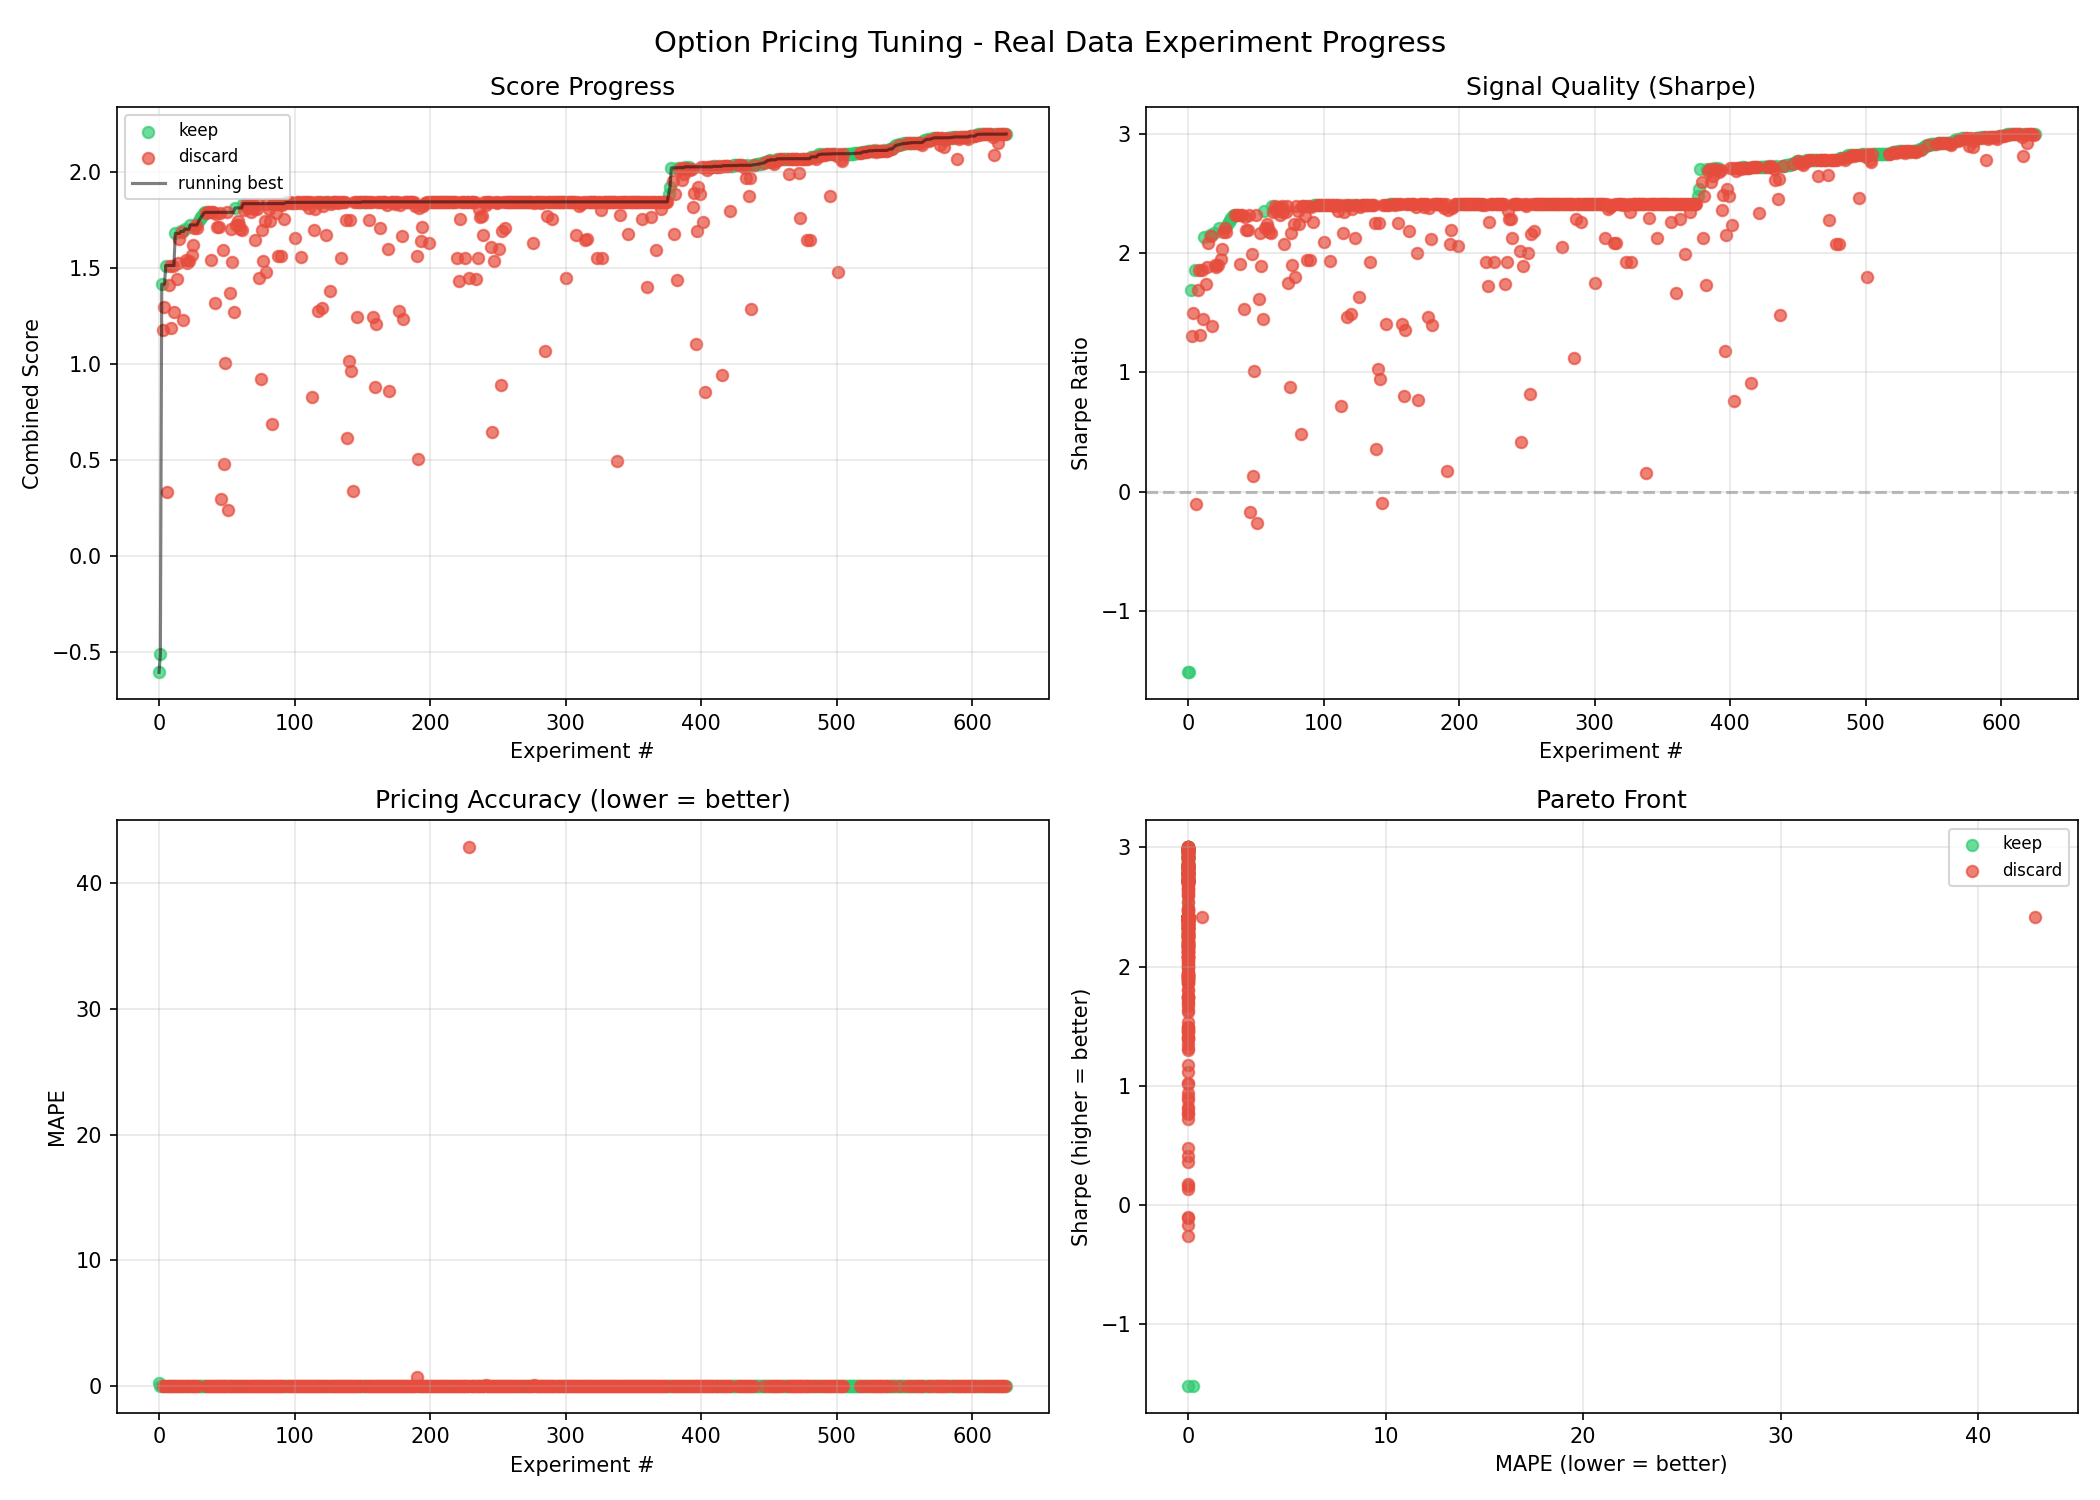
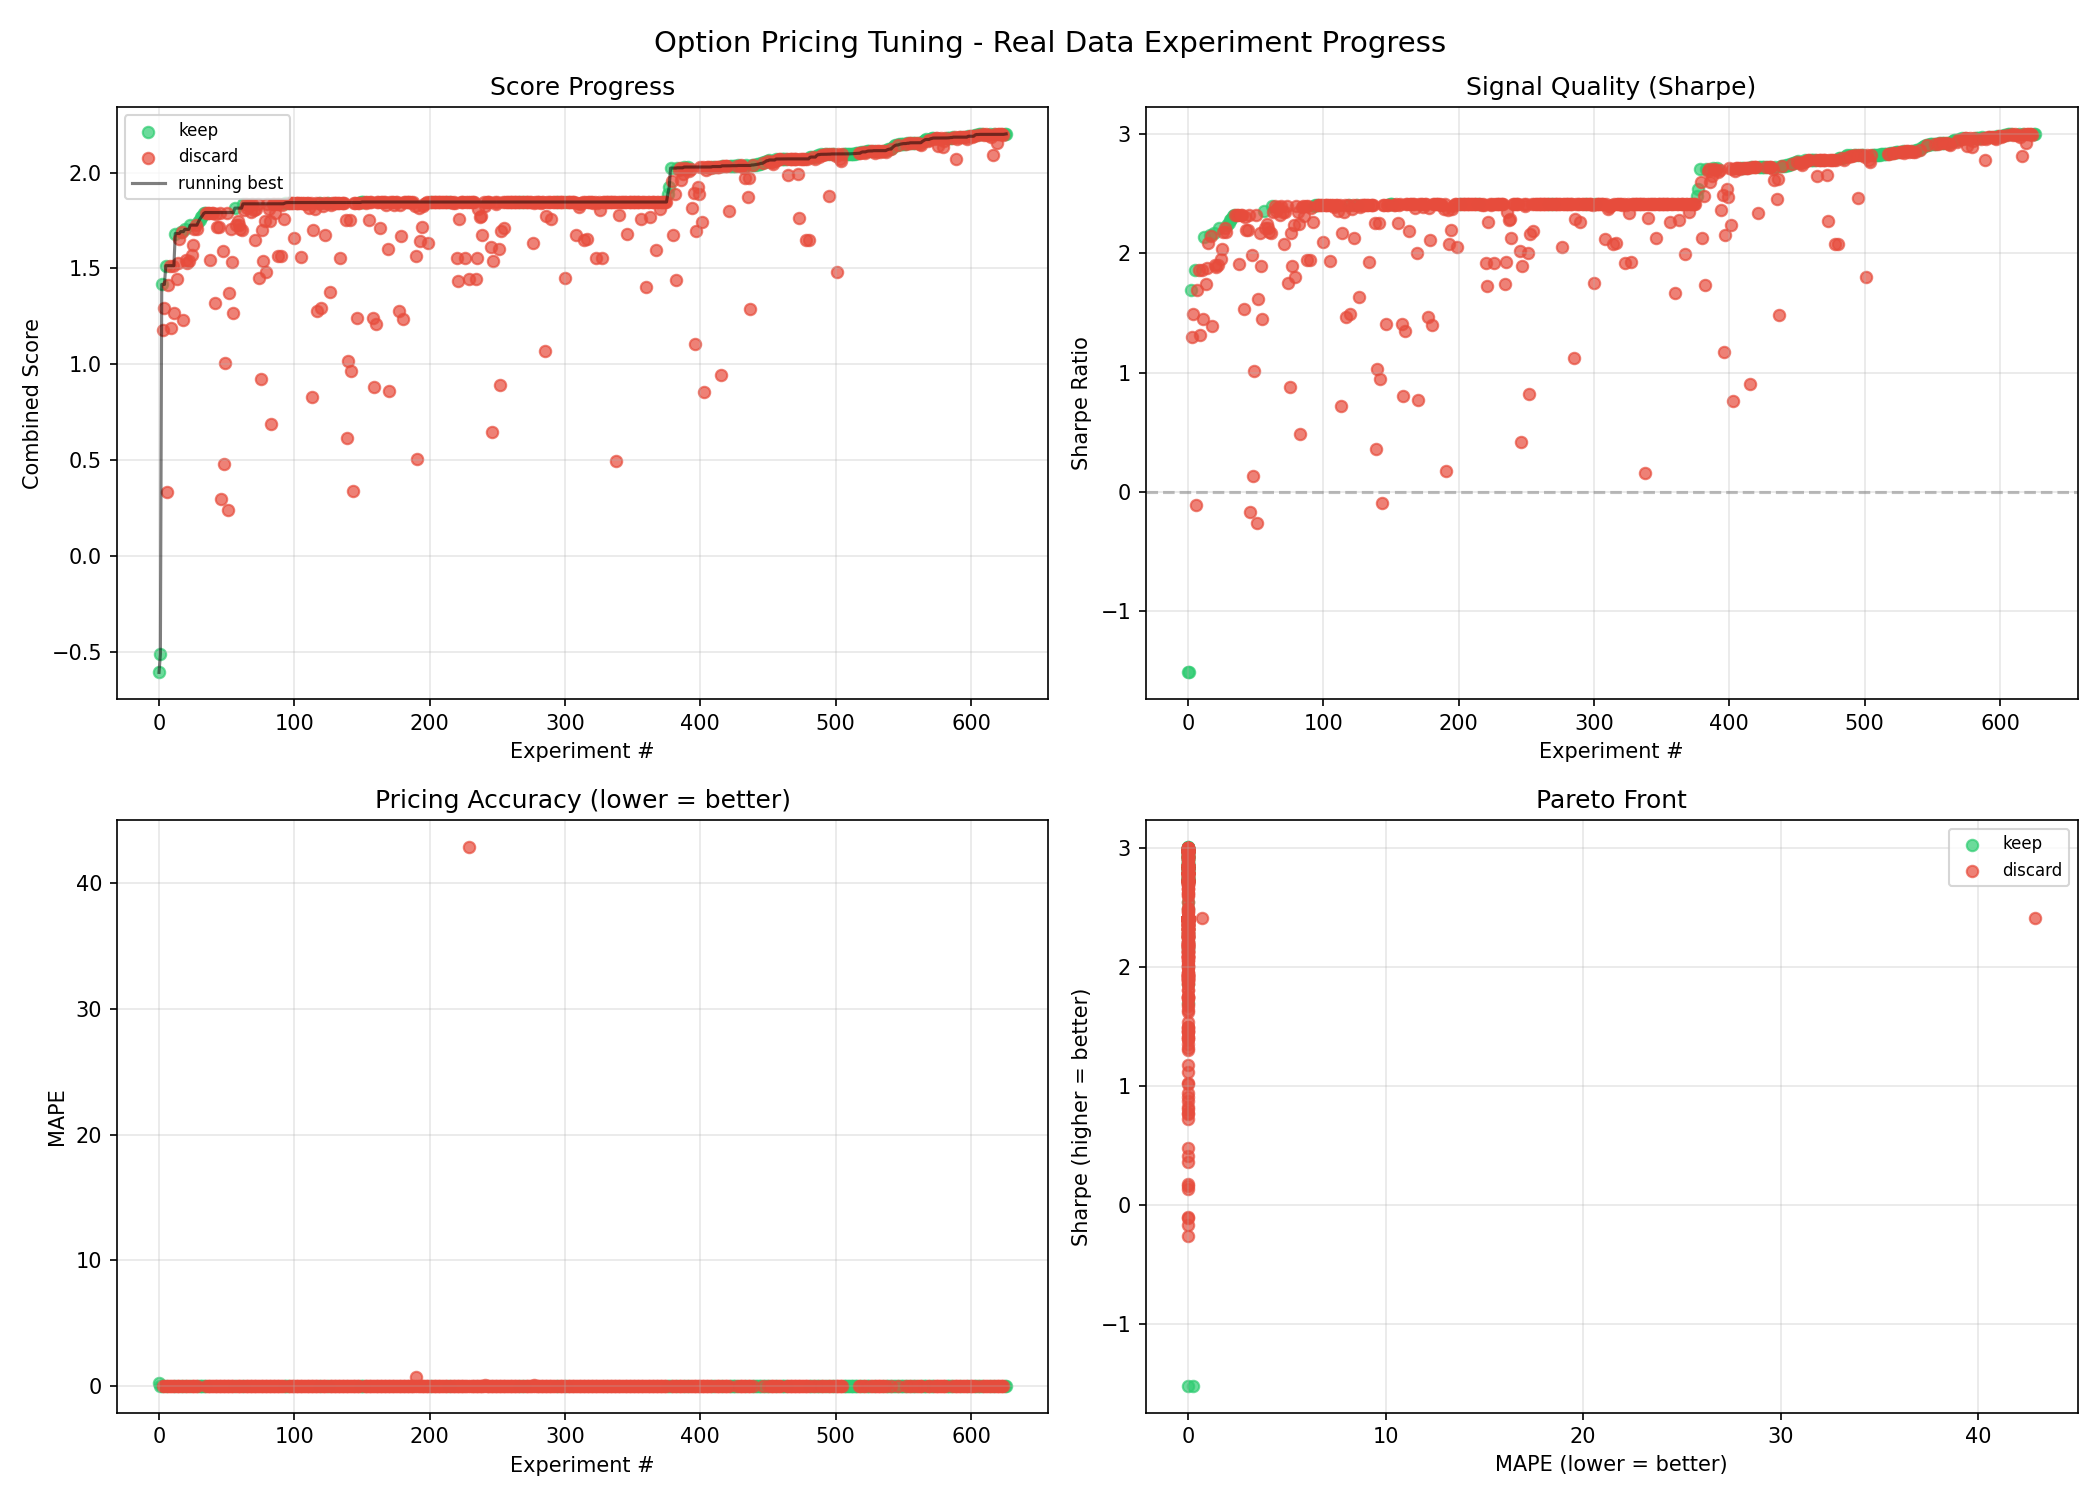
log exp627

diff --git a/README.md b/README.md
@@ -9,12 +9,12 @@ signals using **real stock market data** from Yahoo Finance.
 
 | Metric | Value |
 |---|---|
-| Combined Score | 2.2004 |
-| Sharpe Ratio | 3.0020 |
+| Combined Score | 2.2014 |
+| Sharpe Ratio | 3.0037 |
 | MAPE | 0.002003 |
 | Win Rate | 92.6% |
 | Trades | 27 |
-| Experiments | 626 (129 kept) |
+| Experiments | 627 (130 kept) |
 
 ## How It Works
 
